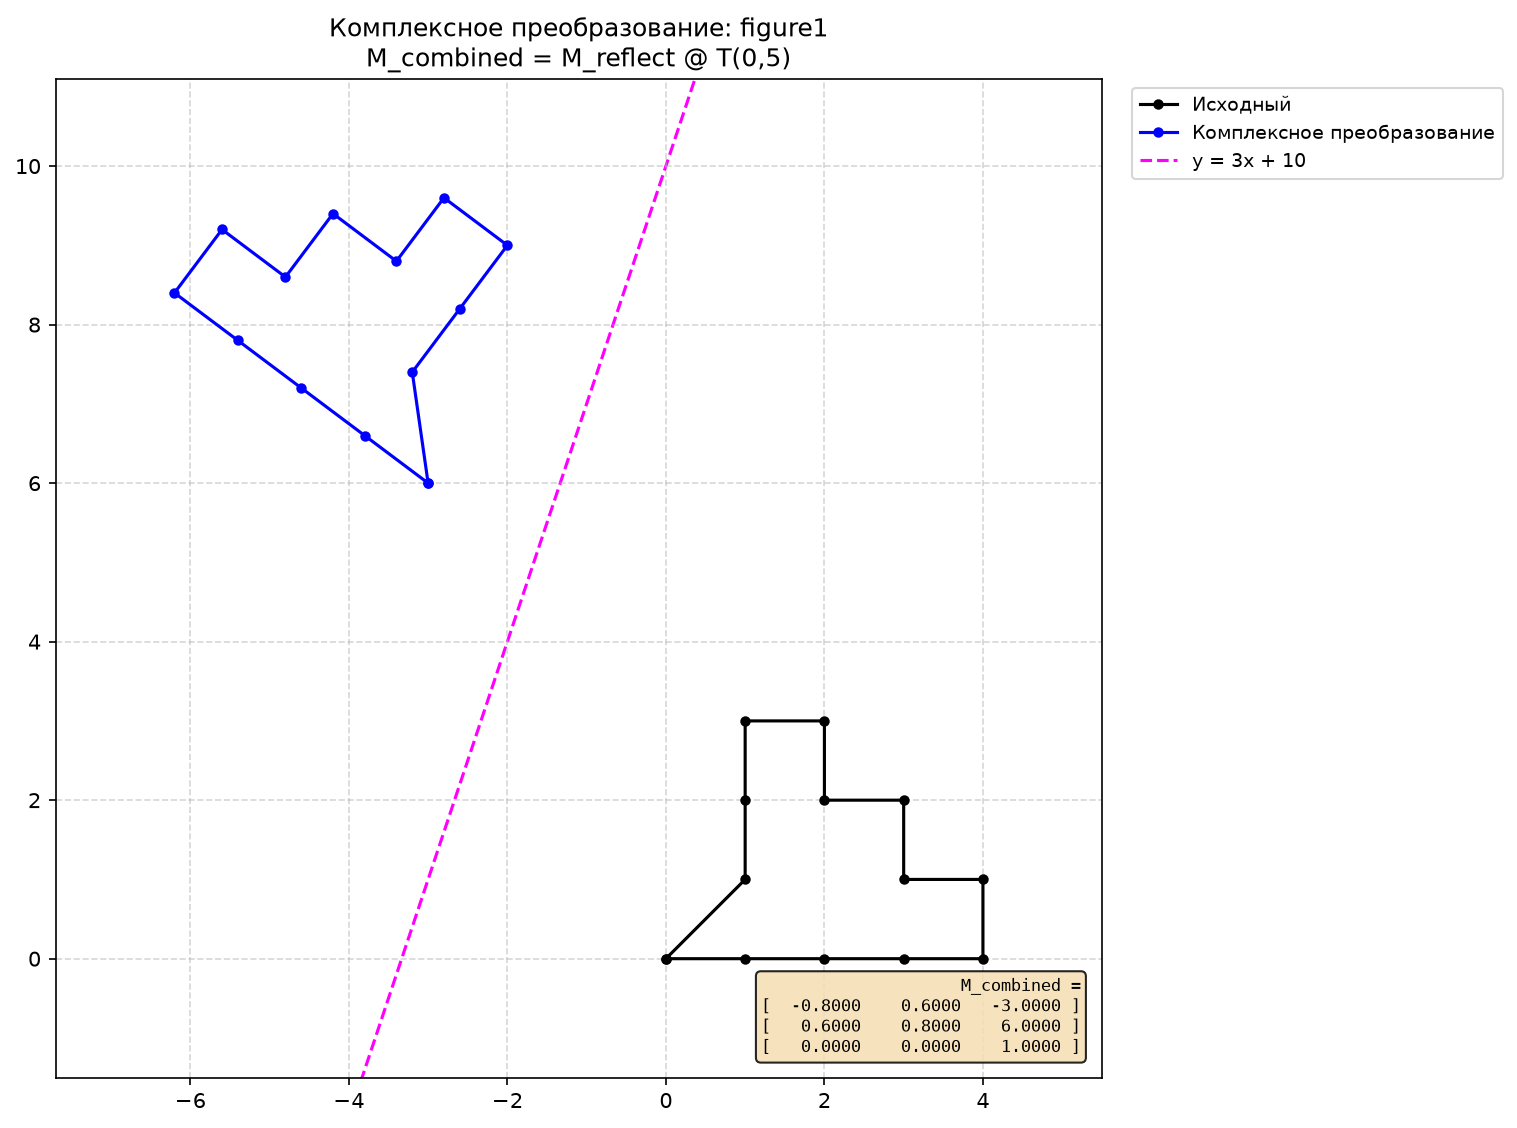
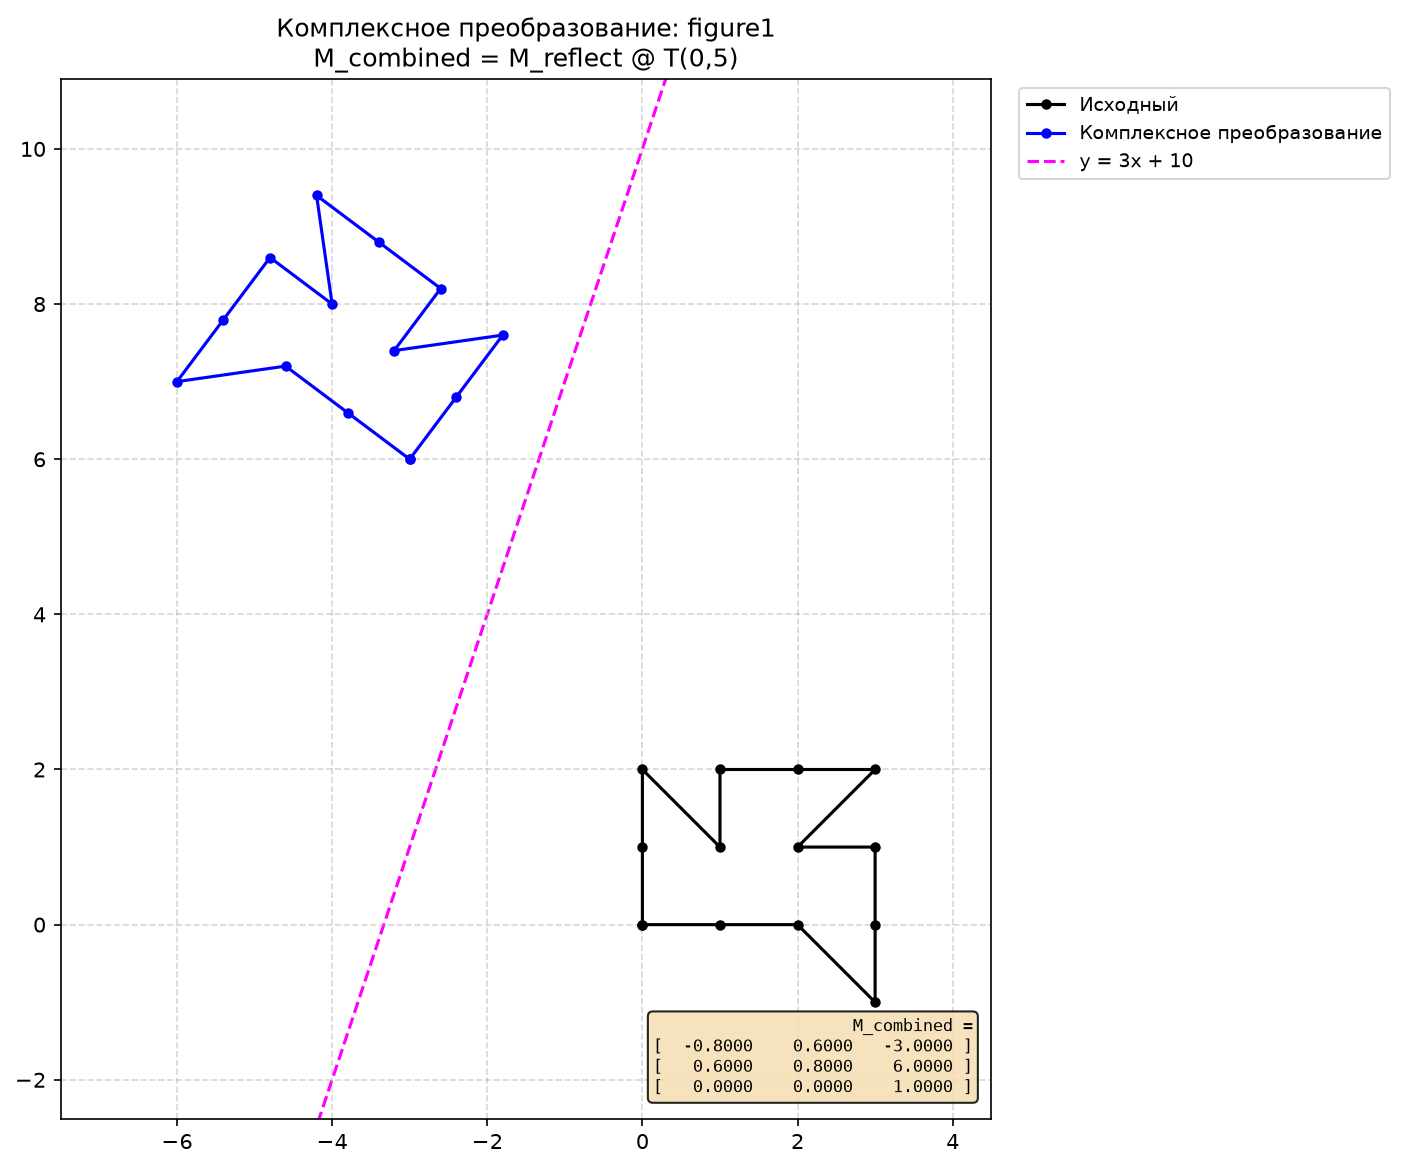
новые фигуры

diff --git a/lab1/main.py b/lab1/main.py
@@ -389,9 +389,9 @@ if __name__ == "__main__":
 
     # Три невыпуклых 9-угольника: разные формы и масштабы.
     figures = [
-        ("figure1", "0000242424665"),              # малый зигзаг
-        ("figure2", "0000022224664246655"),        # средний с выемкой
-        ("figure3", "000000224222446466655"),      # крупный ступенчатый
+        ("figure1", "0072241446366"),              
+        ("figure2", "717131454447"),        
+        ("figure3", "013000122544446666"),      
     ]
 
     for fig_name, code in figures:
